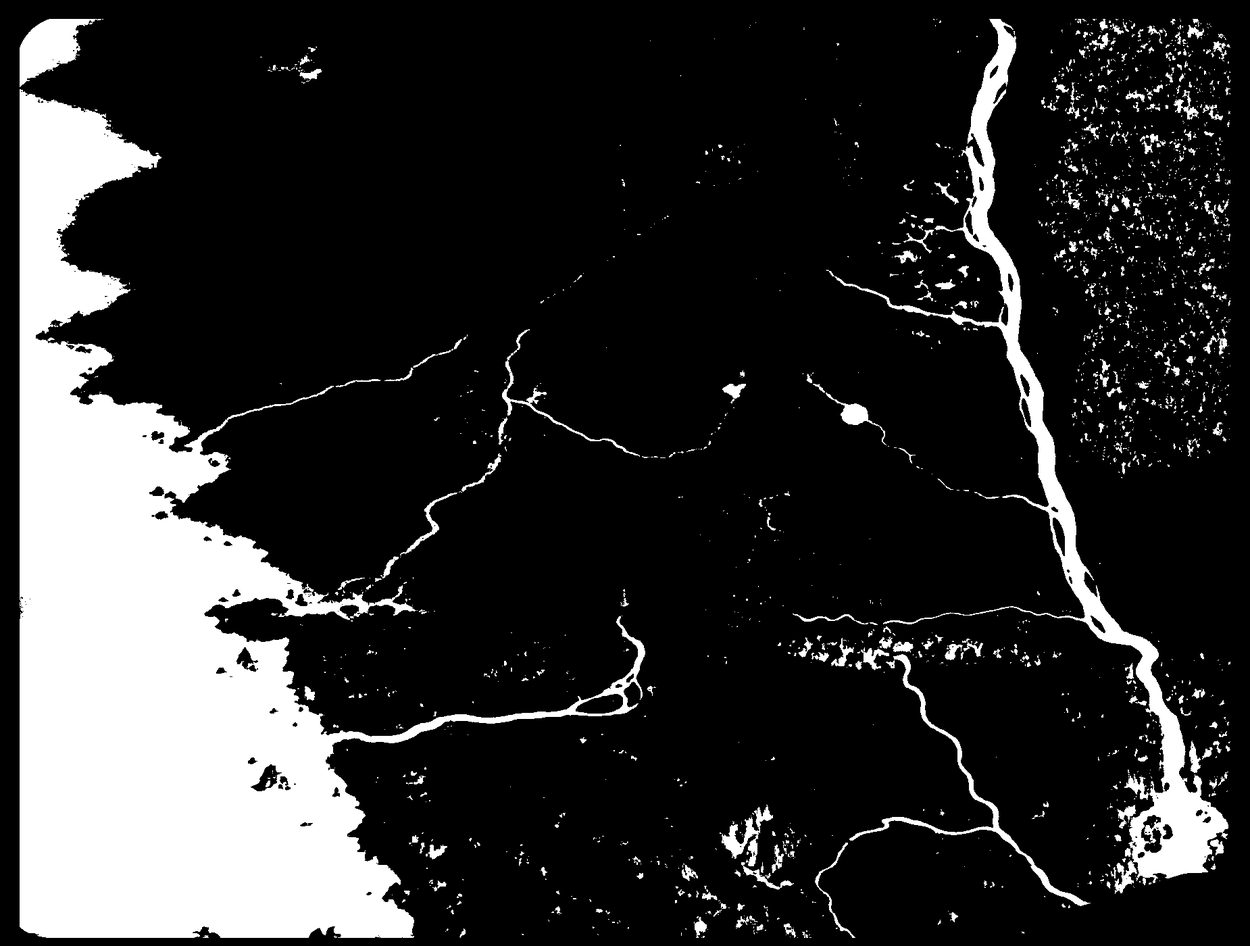
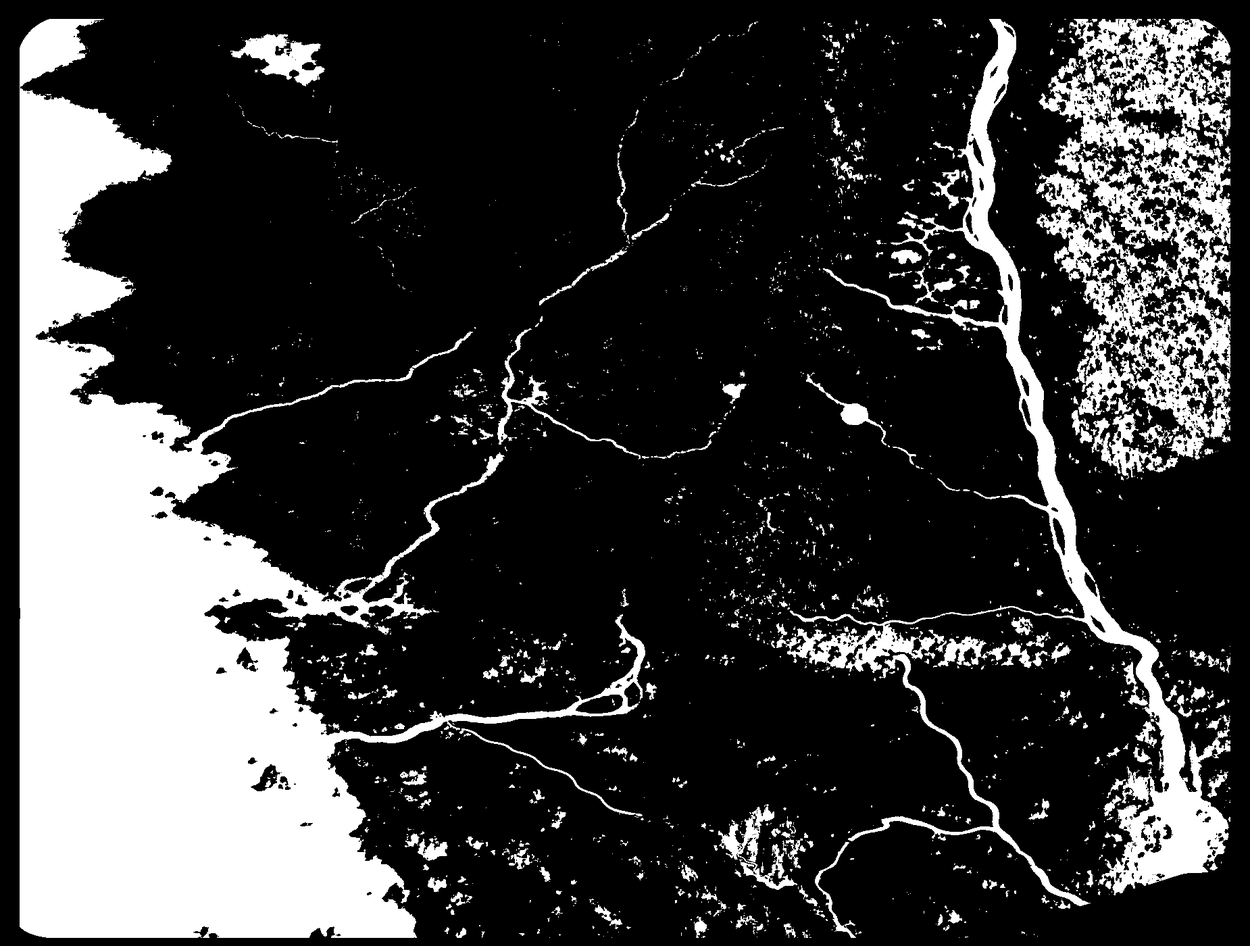
Repair Shire and Westfold tributaries and add shoreline surf

diff --git a/lib/atlas/canvas-scene.ts b/lib/atlas/canvas-scene.ts
@@ -3,12 +3,13 @@ import { atmosphereAt, type MotionIntensity } from './day-cycle';
 import { sceneRegions, travellerPath, anduinJoinPath, type SceneRegion } from './scene-data';
 import { type MapSize, type MapView } from './map-view';
 import { cycleProgress, motionMetrics } from './motion';
-import { roadGuides, correctedRivers } from './cartography';
+import { roadGuides, correctedRivers, tributaryLabels } from './cartography';
+import { drawShoreWaves, type Shoreline } from './shore-waves';
 
 type Sample={x:number;y:number;alpha:number};
 type Track={points:Sample[];length:number};
 type Region=SceneRegion & {opacity:(x:number,y:number)=>number;water:Track[];roadTracks:Track[];birdTracks:Track[]};
-export type CanvasScene={regions:Region[];bird:HTMLImageElement;traveller:Track;join:Track;sea:(x:number,y:number)=>number;water:(x:number,y:number)=>number;roads:Track[];corrections:Track[]};
+export type CanvasScene={regions:Region[];bird:HTMLImageElement;traveller:Track;join:Track;sea:(x:number,y:number)=>number;water:(x:number,y:number)=>number;shore:Shoreline;roads:Track[];corrections:Track[]};
 export type SceneSettings={hour:number;elapsed:number;intensity:MotionIntensity;route:boolean};
 
 export const loadImage=(src:`/${string}`)=>new Promise<HTMLImageElement>((resolve,reject)=>{
@@ -52,10 +53,11 @@ export async function loadCanvasScene():Promise<CanvasScene>{
     if(region.id==='anduin'||region.id==='rohan')for(const t of water)for(const p of t.points)if(p.x>3200&&p.x<3460&&p.y>1780&&p.y<2040)p.alpha=0;
     return {...region,opacity,water,roadTracks:region.roads.flatMap(d=>paths(d).map(part=>samplePath(part,region.x,region.y,opacity))),birdTracks:region.flocks.map(f=>samplePath(f.path,region.x,region.y,opacity))};
   }));
-  const [sea,water]=await Promise.all([loadCoverage('sea'),loadCoverage('water')]);
+  const [sea,water,shore,tributaries]=await Promise.all([loadCoverage('sea'),loadCoverage('water'),fetch(assetPath('/images/atlas-masks/shoreline.json')).then(r=>{if(!r.ok)throw new Error('Could not load shoreline');return r.json() as Promise<Shoreline>;}),fetch(assetPath('/images/atlas-masks/tributaries.json')).then(r=>{if(!r.ok)throw new Error('Could not load watercourses');return r.json() as Promise<{points:[number,number][]}[]>;})]);
   const roads=roadGuides.flatMap(r=>paths(r.path).map(p=>samplePath(p,r.x??0,r.y??0,()=>1)));
   const corrections=Object.values(correctedRivers).map(p=>samplePath(p,0,0,()=>1));
-  return {regions,sea,water,roads,corrections,bird:await loadImage('/images/raven-overhead.png'),traveller:samplePath(travellerPath.path,travellerPath.x,travellerPath.y,()=>1),join:samplePath(anduinJoinPath,0,0,()=>1)};
+  for(const river of tributaries)corrections.push(samplePath(river.points.map(([x,y],i)=>`${i?'L':'M'}${x} ${y}`).join(' '),0,0,()=>1));
+  return {regions,sea,water,shore,roads,corrections,bird:await loadImage('/images/raven-overhead.png'),traveller:samplePath(travellerPath.path,travellerPath.x,travellerPath.y,()=>1),join:samplePath(anduinJoinPath,0,0,()=>1)};
 }
 
 function glow(ctx:CanvasRenderingContext2D,x:number,y:number,rx:number,ry:number,color:string,alpha:number){
@@ -113,6 +115,13 @@ export function drawCanvasScene(ctx:CanvasRenderingContext2D,scene:CanvasScene,v
   }
   waterHighlights+=currents(ctx,scene.join,time,metrics,scene.water);
   for(const track of scene.corrections)waterHighlights+=currents(ctx,track,time,metrics,scene.water);
+  const labelOpacity=Math.max(0,Math.min(1,(view.scale-.4)/.2));
+  if(labelOpacity>0)for(const label of tributaryLabels){
+    if(!inView(label.x,label.y))continue;
+    ctx.save();ctx.translate(label.x,label.y);ctx.rotate(label.angle*Math.PI/180);
+    ctx.font=`italic 500 ${Math.min(32,14/view.scale)}px "Cormorant Garamond", Georgia, serif`;ctx.textAlign='center';ctx.letterSpacing='1.6px';ctx.globalAlpha=.78*labelOpacity;
+    ctx.lineWidth=3;ctx.strokeStyle='#d8ceab';ctx.fillStyle='#354f48';ctx.strokeText(label.text,0,0);ctx.fillText(label.text,0,0);ctx.restore();
+  }
   // Open-water highlights use one coast mask; they never move across land.
   ctx.strokeStyle=a.night>.5?'#a9cbe2':'#e3eee3';ctx.lineWidth=Math.max(1,Math.min(4,.65/view.scale));
   for(let row=0;row<50;row++)for(let col=0;col<19;col++){
@@ -121,9 +130,10 @@ export function drawCanvasScene(ctx:CanvasRenderingContext2D,scene:CanvasScene,v
     ctx.globalAlpha=(.06+.17*Math.pow((Math.sin(time*1.1+col*2+row)+1)/2,2))*strength;
     ctx.beginPath();ctx.moveTo(x,y);ctx.quadraticCurveTo(x+18,y-3,x+38,y);ctx.stroke();waterHighlights++;
   }
+  const shoreSegments=drawShoreWaves(ctx,scene.shore,time,view,size,intensity,a.night,scene.water);
   // Weather coordinates span the atlas, not a separate field per painting.
   for(let i=0;i<4;i++){const x=((time*18+i*1100)%4500)-400,y=420+i*600+Math.sin(time/30+i)*60;glow(ctx,x,y,430,150,'#243d32',.18*(1-a.night)*strength);glow(ctx,x+210,y-40,270,100,'#243d32',.12*(1-a.night)*strength);}
   if(route){const p=trackPoint(scene.traveller,(time%65)/65);glow(ctx,p.x,p.y,13,13,'#f7d994',.5);ctx.globalAlpha=.7;ctx.fillStyle='#fff0bd';ctx.beginPath();ctx.arc(p.x,p.y,1.7,0,Math.PI*2);ctx.fill();}
   ctx.restore();
-  return {visibleBirds,waterHighlights};
+  return {visibleBirds,waterHighlights,shoreSegments};
 }

diff --git a/lib/atlas/shore-waves.ts b/lib/atlas/shore-waves.ts
@@ -1,0 +1,42 @@
+import { cycleProgress } from './motion';
+import type { MapSize, MapView } from './map-view';
+import type { MotionIntensity } from './day-cycle';
+
+export type ShorePoint=[x:number,y:number,seaX:number,seaY:number];
+export type Shoreline={width:number;height:number;tracks:ShorePoint[][]};
+
+// Each wave approaches the bank, brightens into foam, then dissolves before
+// the next cycle. The clock is shared with every other atmospheric effect.
+export function shoreWaveAt(seconds:number,offset:number){
+  const p=cycleProgress(seconds,12,offset);
+  return {distance:48*(1-p)+2,opacity:Math.sin(Math.PI*p)**1.3*(.35+.65*p)};
+}
+
+export function drawShoreWaves(ctx:CanvasRenderingContext2D,shore:Shoreline,time:number,view:MapView,size:MapSize,intensity:MotionIntensity,night:number,water:(x:number,y:number)=>number){
+  const strength=intensity==='subtle'?.72:1;
+  let drawn=0;
+  ctx.save();ctx.lineCap='round';ctx.lineJoin='round';
+  ctx.strokeStyle=night>.5?'#c0d7e0':'#f0eee0';
+  const visible=(x:number,y:number)=>x*view.scale+view.x>-65&&x*view.scale+view.x<size.width+65&&y*view.scale+view.y>-65&&y*view.scale+view.y<size.height+65;
+  shore.tracks.forEach((track,index)=>{
+    for(let wave=0;wave<3;wave++){
+      const {distance,opacity}=shoreWaveAt(time,wave*4+index*.73);
+      if(opacity<.015)continue;
+      ctx.globalAlpha=opacity*.26*strength*(1-night*.25);
+      ctx.lineWidth=Math.max(1.1,Math.min(3.8,.65/view.scale))*(1+(.2*(1-distance/50)));
+      ctx.beginPath();let previous:{x:number;y:number}|null=null;
+      for(let i=0;i<track.length;i++){
+        const [sx,sy,nx,ny]=track[i],ripple=Math.sin(i*.28+index)*1.1;
+        const x=sx+nx*(distance+ripple),y=sy+ny*(distance+ripple);
+        // Short, irregular breaks keep the surf from becoming a solid outline.
+        if(!visible(x,y)||water(x,y)<.9||Math.sin(i*.19+index*2+wave)>.91){previous=null;continue;}
+        if(previous&&Math.hypot(x-previous.x,y-previous.y)<22&&water((x+previous.x)/2,(y+previous.y)/2)>.9){
+          ctx.moveTo(previous.x,previous.y);ctx.lineTo(x,y);drawn++;
+        }
+        previous={x,y};
+      }
+      ctx.stroke();
+    }
+  });
+  ctx.restore();return drawn;
+}

diff --git a/components/atlas-painting.tsx b/components/atlas-painting.tsx
@@ -6,7 +6,7 @@ import { renderAtlasPainting, lightAtlasPainting } from '@/lib/atlas/painting';
 import { loadCanvasScene, loadImage, drawCanvasScene, type CanvasScene } from '@/lib/atlas/canvas-scene';
 import { type MotionIntensity } from '@/lib/atlas/day-cycle';
 
-export type AtlasPaintingHandle={paint:(view:MapView,size:MapSize)=>void;diagnostics:()=>{renderer:string;frames:number;surfaceResizes:number;p95DrawMs:number;maxDrawMs:number;surfacePixels:number;animationSeconds:number;visibleBirds:number;waterHighlights:number}};
+export type AtlasPaintingHandle={paint:(view:MapView,size:MapSize)=>void;diagnostics:()=>{renderer:string;frames:number;surfaceResizes:number;p95DrawMs:number;maxDrawMs:number;surfacePixels:number;animationSeconds:number;visibleBirds:number;waterHighlights:number;shoreSegments:number}};
 type Props={onLoad:()=>void;onError:()=>void;hour:RefObject<number>;running:boolean;visible:boolean;intensity:MotionIntensity;route:boolean};
 
 // One opaque presentation surface. No live CSS masks, filters, blend layers,
@@ -16,7 +16,7 @@ export const AtlasPainting=memo(forwardRef<AtlasPaintingHandle,Props>(function A
   const assets=useRef<{image:HTMLImageElement;scene:CanvasScene}|null>(null);
   const camera=useRef<{view:MapView;size:MapSize}|null>(null),settings=useRef(props);
   useEffect(()=>{settings.current=props;},[props]);
-  const elapsed=useRef(0),measurements=useRef<number[]>([]),frames=useRef(0),resizes=useRef(0),lastScene=useRef(''),lastDraw=useRef(0),sceneCounts=useRef({visibleBirds:0,waterHighlights:0});
+  const elapsed=useRef(0),measurements=useRef<number[]>([]),frames=useRef(0),resizes=useRef(0),lastScene=useRef(''),lastDraw=useRef(0),sceneCounts=useRef({visibleBirds:0,waterHighlights:0,shoreSegments:0});
   const draw=useCallback(()=>{
     const element=canvas.current,current=camera.current,loaded=assets.current,back=buffer.current;
     if(!element||!current||!loaded||!back)return;

diff --git a/lib/atlas/places.ts b/lib/atlas/places.ts
@@ -84,7 +84,7 @@ export const places = [
   },
   {
     id:'helms-deep',name:'Helm’s Deep',overviewLabel:'Helm’s Deep',kind:'A stronghold of the Westfold',pinSubtitle:'The Hornburg',subtitle:'A guarded gorge beneath the Thrihyrne',
-    description:'Helm’s Deep cuts into the northern White Mountains, southeast of the Fords of Isen. The Hornburg and the Deeping Wall defend its entrance. The Deeping-stream runs out of the gorge, while the Glittering Caves lie within the mountains behind the defences.',
+    description:'Helm’s Deep cuts into the northern White Mountains, southeast of the Fords of Isen. The Deeping-stream passes through the Deeping Wall and around the foot of the Hornburg. Its known course is shown within the gorge; its eventual confluence is not established in the published maps.',
     date:null,region:'rohan',major:true,source:'https://tolkiengateway.net/wiki/Helm%27s_Deep',sourceLabel:'Book III, ch. 7 · Helm’s Deep',
   },
   {

diff --git a/lib/atlas/cartography.ts b/lib/atlas/cartography.ts
@@ -6,7 +6,14 @@ import { westernRoad, westernSpur } from './western-illustration';
 export const cartographySources={
   general:'https://tolkiengateway.net/wiki/File:Christopher_Tolkien_-_The_West_of_Middle-earth.png',
   rohan:'https://tolkiengateway.net/wiki/File:Christopher_Tolkien_-_Map_of_Rohan,_Gondor,_and_Mordor.png',
+  shire:'https://tolkiengateway.net/wiki/File:Christopher_Tolkien_-_A_Part_of_the_Shire.jpg',
 };
+
+export const tributaryLabels=[
+  {text:'THE WATER',x:918,y:390,angle:0},
+  {text:'WITHYWINDLE',x:1158,y:656,angle:-27},
+  {text:'ADORN',x:1585,y:2310,angle:25},
+];
 export const roadNodes={
   havens:[435.55,538.09],shireJunction:[793.95,520.51],hobbiton:[804.69,369.14],
   bree:[1284.18,481.45],fordBruinen:[2035.16,595.7],

diff --git a/docs/cartographic-audit.md b/docs/cartographic-audit.md
@@ -9,6 +9,7 @@ places, crossings and connections; the painting is not a traced projection.
 Primary maps, reproduced for consultation:
 
 - [1980 map](https://tolkiengateway.net/wiki/File:Christopher_Tolkien_-_The_West_of_Middle-earth.png)
+- [A Part of the Shire](https://tolkiengateway.net/wiki/File:Christopher_Tolkien_-_A_Part_of_the_Shire.jpg)
 - [Rohan, Gondor and Mordor](https://tolkiengateway.net/wiki/File:Christopher_Tolkien_-_Map_of_Rohan,_Gondor,_and_Mordor.png)
 - [Tolkien Estate: original map development](https://www.tolkienestate.com/painting/maps/)
 
@@ -21,7 +22,7 @@ were too broad: the generated terrain contains details absent from these maps.
 | Lhûn and Baranduin | Separate rivers, with separate mouths | Main drainage remains separate. Retained. Minor tributaries and exact shoreline are not certified. |
 | Lake Evendim / Brandywine Bridge | Baranduin flows out of the lake and crosses the East Road north of Old Forest | Main relationship matches. Retained; the lake and bends are pictorial. |
 | Hobbiton / Shire roads | Hobbiton is north of the East Road; local lanes require the detailed Shire map | Main placement retained. The painting's numerous tiny field lines and lanes are not a verified Shire road network. |
-| The Water / Withywindle | Named tributaries shown in the Shire's more detailed geography | They are not reliably identifiable in this painting. Do not label an arbitrary painted line as either river. A detailed Shire hydrology pass remains necessary. |
+| The Water / Withywindle | The Water passes Hobbiton and Bywater, then reaches Baranduin above the Bridge. Withywindle flows southwest through Old Forest into Baranduin. | **Repaired in the follow-up:** both have deliberately placed channels and identifiable confluences. The Water passes south of the Hobbiton anchor and north of the East Road. Fine marsh bifurcations and minor Shire tributaries are below this depiction’s level of detail. |
 | Bree / Weather Hills | Bree is a crossroads; East Road passes south of Weathertop | Main relationship matches. Restored a connected Greenway annotation southward from Bree. |
 | Last Bridge / Bruinen ford | East Road crosses Hoarwell at Last Bridge, then Bruinen at a ford | Existing bridge and bounded ford correction retained. No new arch bridge at Bruinen. The visible road annotation stops in the illustrated valley; it does not assert a surveyed High Pass continuation. |
 | Hoarwell / Bruinen | Bruinen joins Hoarwell southwest of Rivendell | Main confluence retained. Animated highlights now also check the painted water coverage to avoid lighting adjacent land. |
@@ -32,7 +33,7 @@ were too broad: the generated terrain contains details absent from these maps.
 | Limlight / Fangorn | Limlight runs east along Fangorn's northern side to Anduin; it is distinct from Entwash | **Error corrected:** the painted stream faded into trees. A continuous narrow channel now reaches the Anduin. Its former descending dead end is removed. |
 | North–South Road / Isengard / Fords | The road continues through the Gap to the Fords; Isengard is not its southern terminus | **Error corrected:** the annotation stopped at Isengard. The connected network now has an Isengard spur and a separate continuation to the Fords. |
 | Isen | Runs south past Isengard, then west at the Fords; separate from Entwash | Original main river and ford retained. A generated cleanup candidate moved the ford banks and was rejected there. Only its upper road and bounded dry-ground cleanup are integrated. A tiny remaining inlet near the ford is not promoted to a named tributary. |
-| Adorn / Deeping-stream | Adorn joins Isen from the White Mountains; Deeping-stream belongs to Helm's Deep | Not reliably distinguishable in the current painterly detail. Do not relabel the former northwestern spur as Adorn. These require a dedicated terrain correction, rather than an invented connection. |
+| Adorn / Deeping-stream | Adorn joins Isen from the western White Mountains; Deeping-stream passes through the wall and around the Hornburg. Its ultimate confluence is not established in the published maps. | **Repaired in the follow-up:** Adorn now reaches the Isen from the south, well downstream of the Fords. Only Deeping-stream’s local gorge course is illustrated; it is not connected speculatively to Isen, Adorn or Entwash. The Helm’s Deep entry explains the limit. |
 | Snowbourn / Edoras / Entwash | Snowbourn flows north through Harrowdale, past Edoras, then east into Entwash | The existing north-then-east course is consistent with the published maps. Retained. A westward outflow suggested by one secondary place article was not adopted. |
 | Entwash / Anduin / Nen Hithoel | Entwash joins Anduin downstream of Rauros, not directly into Nen Hithoel | The prior southeastern exclusion remains. It is not presented as a complete Entwash delta. The river continues beyond this atlas's illustrated extent. |
 | Great West Road | Connects the Fords and Edoras, continuing toward Gondor along the mountain region | Added connected cartographic guidance over the existing illustration. Local curves follow the pictorial terrain; the southern endpoint is the map edge, not a claimed road terminus. |
@@ -47,10 +48,11 @@ highlights the network; a quiet base line remains, like the roads already
 painted into the terrain.
 
 This does **not** certify every small track, brook, ruin or terrain mark.
-The missing named tributaries above are explicit gaps. Before a close-up region
-is described as geographically complete, its named watercourses and crossings
-must be mapped from the appropriate published detail map and then its terrain
-edited to match. Broadly plausible generated scenery is insufficient evidence.
+The named omissions identified above have been addressed at this atlas’s scale.
+Deeping-stream’s unknown final destination is retained as a source limitation.
+This is still a pictorial atlas, not a complete reconstruction of every minor
+Shire brook, marsh branch or village lane. Broadly plausible generated scenery
+is insufficient evidence for naming additional features.
 
 ## Motion restoration
 
@@ -80,3 +82,46 @@ particular, the Greenway candidate's shifted river banks were not accepted.
 
 The original `atlas-continuous.webp` remains available. Named road relationships
 and corrected current guides are explicit data in `lib/atlas/cartography.ts`.
+
+
+## Follow-up: tributaries and coastal surf
+
+Consulted Christopher Tolkien’s published **A Part of the Shire** in addition
+to the 1980 map. The Water’s northwestern course, passage beside Hobbiton,
+Bywater pool and confluence above the Bridge provide the controls for its
+placement. Withywindle is distinct on the opposite bank and flows southwest
+through the southern Old Forest. Adorn is drawn from the western White
+Mountains into Isen, south of Isen and west of the Fords. None of these edits
+moves a town, the original main rivers, or the Fords.
+
+Deeping-stream needs a different evidential treatment. *The Two Towers*,
+Book III, “Helm’s Deep” and “The Road to Isengard”, describe the wall, rock
+and coomb. The final confluence is not established on the published maps;
+[the reference notes](https://tolkiengateway.net/wiki/Deeping-stream) distinguish
+that unknown from courses invented by adaptations. We depict only the local
+gorge reach, with its downstream end occluded in the rock detail. This is
+not a claim that the river terminates there, nor that its whole course is mapped.
+
+Two built-in ImageGen edits supplied river and bank material. Their full
+crops were rejected because their stream positions did not consistently
+follow the brief. `scripts/register-tributaries.mjs` extracts narrow raster
+strips, registers those strips to the reviewed locations, and preserves the
+surrounding original painting. It never adopts the candidate’s whole terrain.
+Adorn’s candidate extension toward the fortress was excluded, and the
+Deeping-stream candidate’s high outflow was moved to the known local gorge.
+The exact prompts and registrations are documented in
+[tributary-repair-prompts.md](tributary-repair-prompts.md).
+
+At close zoom, The Water, Withywindle and Adorn gain restrained labels. Current
+highlights follow sampled positions from the integrated raster corridors and
+still check water coverage. The Water flows east; the other added reaches
+flow toward their downstream ends rather than using the input image’s drawing
+order. These samples constrain animation, not independent geographic evidence.
+
+Coastal surf is traced from the same connected ocean mask as the painting.
+Three staggered wave fronts travel toward shore, brighten, fragment and
+fade over twelve seconds. Bays and headlands shape their approach. Every
+segment checks both endpoints and midpoint against the water mask; narrow
+inland channels and the feathered paper edge are excluded. Surf respects
+Subtle/Lively, pause, reduced motion and the common day/night clock. It adds
+no visible canvas, CSS blend layer, moving region sheet or new lighting boundary.

diff --git a/docs/tributary-repair-prompts.md b/docs/tributary-repair-prompts.md
@@ -1,0 +1,50 @@
+# Tributary artwork provenance — 8 September 2026
+
+Built-in ImageGen: exactly two edits, generated together, with no retries.
+Only registered river and bank strips are accepted. Full candidate crops
+are retained as reproducible inputs, not displayed wholesale.
+
+## Shire
+
+Use case: precise-object-edit.
+Asset type: painted Tolkien atlas river correction.
+Input images: Image 1, shire-target.png, is the ONLY edit target: a 900 by 600 pixel landscape painted map. Image 2, shire-reference.jpg, is geography reference only. Never copy its labels, lettering, symbols, paper color, or graphic style.
+Primary request: Add ONLY The Water and Withywindle as fine connected streams in the target. Match the target's existing hand-painted muted olive, ochre, dark forest green and blue-green palette, fine brushwork, grain, aerial map perspective, lighting, terrain texture, and sharpness precisely.
+Composition/framing: Preserve the entire target crop's exact composition, boundaries, view, positions, and aspect ratio. Pixel coordinates below refer to the ORIGINAL 900x600 target and must be proportionally respected if output resolution is higher. Do not zoom, crop, shift, warp, redesign, or repaint unrelated areas.
+
+The Water: a continuous fine 4–7 pixel muted blue-green stream, much smaller than the existing Baranduin. Begin in the northwest low hills near (140,60), descend toward (190,140), bend east and south to pass immediately south of the EXISTING Hobbiton village at (305,189), then continue via (280,214) and (340,220), with a tiny naturally widened Bywater pool at the latter point. Continue through (405,215) and (450,231), and visibly join the WEST bank of the EXISTING Baranduin near (493,238). This mouth must lie NORTH of the ORIGINAL East Road stone bridge near (495,260). Water must flow continuously all the way into Baranduin: join the river water, with no grassy divider and no floating or disconnected ends. Keep the original East Road bridge and Baranduin's course, width, banks and texture EXACTLY as they are. Very short minor split-and-rejoin marsh threads near (180,100) and north of the road near (400,218) may be restrained and tiny. Fine natural painted banks only.
+
+Withywindle: add a thin 3–6 pixel winding muted blue-green brook through the SOUTHERN Old Forest. Begin near the northeastern forest edge at (742,368), at the foot of the Barrow-downs. Follow southwest through (693,394), (650,416), (600,438), (566,461), and join the EAST bank of existing Baranduin near (542,478). Preserve the forest; clear only the immediate slender stream corridor among the trees. Make the mouth visibly open into Baranduin, with no grassy divider or floating end.
+
+Constraints: Change ONLY immediate stream corridors. Preserve original villages and Hobbiton houses, Bree at the right, all roads and paths, the stone bridge, original Baranduin, hills, mountains, coastline, land colors, forest composition and every unrelated feature. Do not add or move any settlement, building, bridge, label, writing, border or map symbol. No bright cyan, no thick dominant rivers, no new tributaries, no new lakes except the tiny Bywater pool, no broad forest removal. The published reference determines geography only; target determines all visual appearance. Output only the edited version of Image 1.
+
+
+## Westfold
+
+Use case: precise-object-edit.
+Asset type: painted Tolkien atlas river correction.
+Input images: Image 1, westfold-target.png, is the ONLY edit target: a 1350 by 740 pixel landscape painted map. Image 2, west-published-crop.png, is geography reference only; its LOWER portion shows Adorn south of Isen coming from the western White Mountains. Never copy reference labels, lettering, symbols, paper background, or graphic style.
+Primary request: Add ONLY the Adorn river and the KNOWN LOCAL northward Deeping-stream course to the target. Match precisely the target's existing painted muted grassy olive and ochre, blue-green water, fine brushwork, grain, aerial map perspective, terrain, light, and sharpness.
+Composition/framing: Keep the entire target crop's original exact framing, aspect ratio, boundaries, perspective and positions. Pixel coordinates below refer to ORIGINAL 1350x740 target and must be proportionally respected if output resolution is higher. No zoom, crop, shift, warping, or redesign.
+
+Adorn: add a slender 6–10 pixel natural muted blue-green river, distinctly smaller than existing Isen. Source it on the WEST side of the White Mountain foothills near (790,582). It flows as one continuous meandering channel NORTHWEST through (700,520), (600,490), (525,455), (440,380), (350,330), (260,285), (210,240), then joins the SOUTH bank of the EXISTING Isen at approximately (165,164). Follow this source-to-mouth route around natural foothills, modifying only the immediate slender river corridor. Its mouth must visibly join Isen water with no grassy barrier or floating end. The junction is far WEST/downstream of the existing island/Fords around (670,120). Preserve existing Isen's course and all original banks, width, island and Fords exactly. Do not attach Adorn to any northwest inlet or to the Fords.
+
+Deeping-stream: show ONLY the known LOCAL northward outflow. A very slender brook emerges from the gorge at the feet of the EXISTING fortress around (1090,620), passes through the BASE of the EXISTING defensive wall near (1055,580), then flows north around the foot of the Hornburg rock through (1020,550), (1010,500), (960,450), (920,414). Its downstream continuation then becomes naturally OCCLUDED UNDER an existing alder/woodland stand near (900,400). Keep the channel subtle and narrow, scaled much smaller than Isen or Adorn. Its far end MUST vanish naturally beneath foliage; never end abruptly in bare open ground. Do not invent unknown downstream geography: NO connection whatsoever from Deeping-stream to Isen, Adorn, Snowbourn, Entwash, or another river. Only remove any false tiny blue rivulet pointing south from the fortress where necessary to establish this northward local outflow. Preserve the fortress, gorge, cliff, wall, roads and vegetation outside the immediate brook corridor exactly.
+
+Constraints: Change ONLY these two immediate stream corridors. Preserve the entire original terrain and mountain silhouettes, existing fortress structures, coast at lower left, roads, forest patches and all distant features. Keep the ORIGINAL Snowbourn at the FAR RIGHT and all its banks and course EXACTLY where they are. No new settlements, buildings, labels, lettering, symbols, bridges, map borders, large lakes, other rivers, bright colors, or broad terrain repainting. The reference informs geography only; the target controls all appearance. Output only the edited version of Image 1.
+
+
+## Saved assets and integration
+
+- `public/images/repairs/shire-waterways-source.webp`: 900×600 lossless resampling of the 1536×1024 candidate.
+- `public/images/repairs/westfold-waterways-source.webp`: 1350×740 lossless resampling of the 1694×929 candidate.
+- `public/images/repairs/shire-waterways.webp`: transparent registered river strips, placed at world (500,180).
+- `public/images/repairs/westfold-waterways.webp`: transparent registered river strips, placed at world (1150,1960).
+- `scripts/register-tributaries.mjs` records source and destination controls, source-channel sampling, raster registration and feathering.
+
+The Water’s candidate passed north of Hobbiton: the accepted strip is moved
+south of the village, with its confluence retained above Brandywine Bridge.
+Withywindle’s strip is moved into the southern Old Forest. Adorn is accepted
+only as far upstream as the western mountain foothills; its invented extension
+toward the Hornburg is excluded. Deeping-stream is restricted to a short local
+gorge reach. Its final destination remains unknown, not invented.
